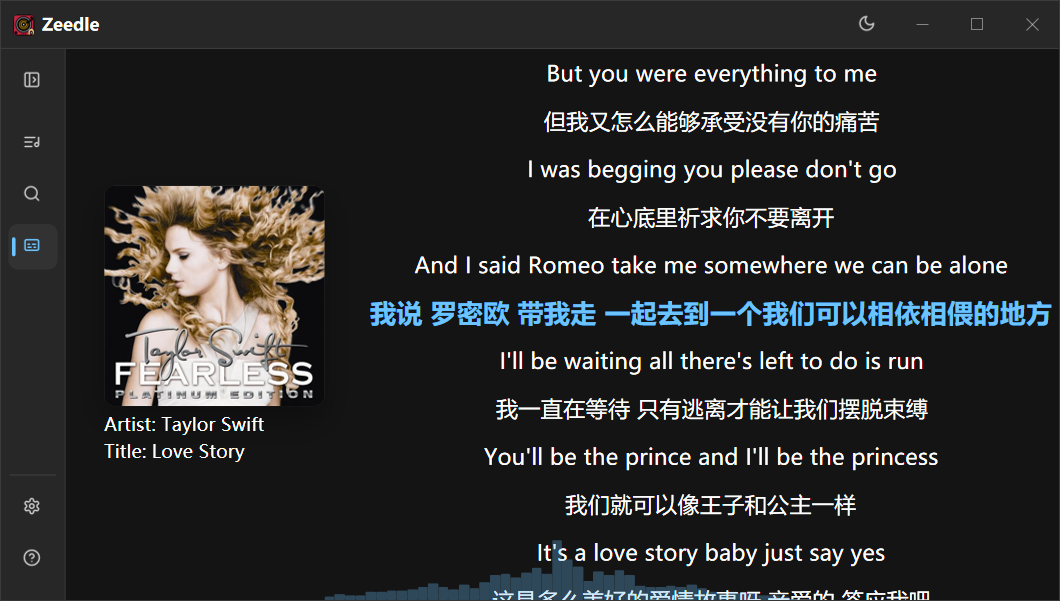
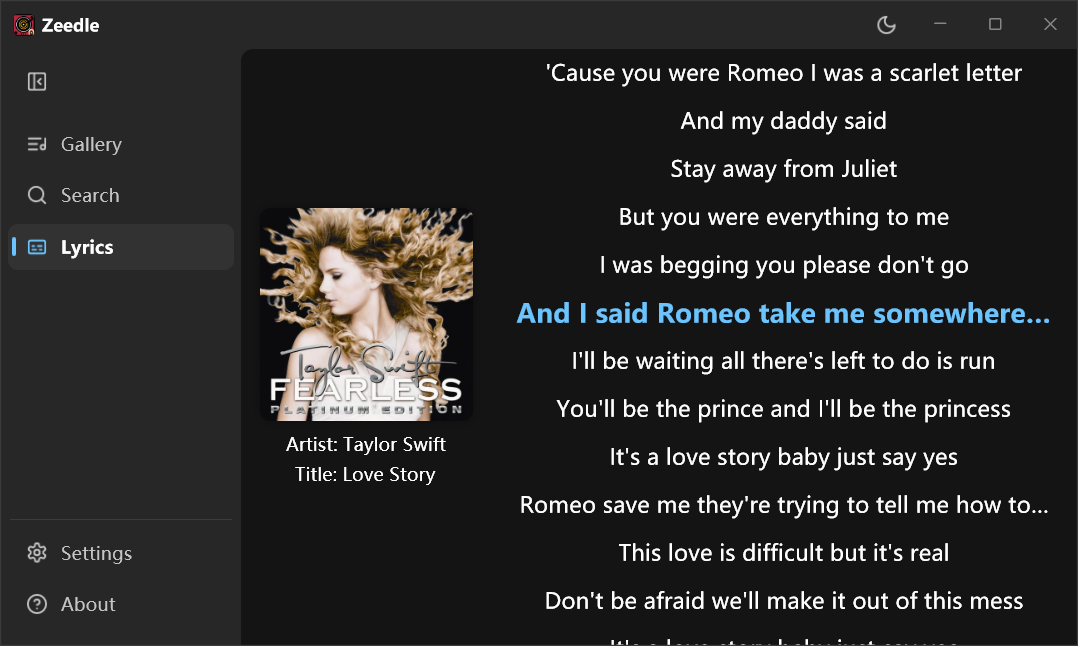
docs(readme): refresh dark screenshots for both locales

diff --git a/README.zh-CN.md b/README.zh-CN.md
@@ -1,0 +1,196 @@
+<p align="center">
+  <img src="assets/cover.svg" alt="Zeedle 标志" width="88">
+</p>
+
+<h1 align="center">Zeedle</h1>
+
+<p align="center">
+  <strong>使用 <a href="https://nsh.dev">Native Shell（NSH）</a>移植的本地音乐播放器。</strong><br>
+  音乐即刻播放，设计简洁纯粹。
+</p>
+
+<p align="center">
+  使用 <a href="https://nsh.dev">Native Shell</a>、Rust 和 Rodio 构建
+</p>
+
+<p align="center"><a href="README.md">English</a></p>
+
+---
+
+Zeedle 是一款轻量级桌面音乐播放器，专注于本地音乐库。本项目使用 TSX 界面和 Rust 音频、元数据后端，将 [原版 Zeedle](https://github.com/Jordan-Haidee/zeedle) 移植到 [Native Shell](https://nsh.dev)。
+
+## 功能
+
+- 浏览和搜索本地 MP3、FLAC、WAV 与 OGG 文件。
+- 显示内嵌歌词或同目录的 LRC 歌词，并可点击歌词行跳转播放位置。
+- 播放音乐时查看实时频谱。
+- 在曲库中编辑歌曲信息、专辑封面和歌词。
+- 选择顺序、单曲循环或随机播放，并使用键盘快捷键控制播放和切歌。顺序播放会按当前曲库排序循环；单曲循环模式下按“下一首”会重播当前歌曲；随机播放会避免连续选中同一首，并可通过上一首/下一首沿随机播放历史前后切换。
+- 关闭窗口后让 Zeedle 继续在系统托盘运行；可以从托盘重新显示窗口、重新扫描曲库或退出程序。
+- 支持英语、中文、西班牙语、法语、德语和俄语，并可跟随系统主题。
+
+## 开发环境
+
+Zeedle 使用 NSH 0.6.1 和 Rust 构建原生音频后端。Bun 用于运行 TypeScript 格式化、静态检查和辅助脚本。请为你的平台安装以下工具，然后克隆仓库。
+
+### Windows
+
+使用 Windows 10 版本 1809 或更新版本，并安装：
+
+1. [Git for Windows](https://git-scm.com/download/win)。
+2. [通过 rustup 安装 Rust](https://www.rust-lang.org/tools/install)。安装时选择 MSVC 工具链，并按提示安装 Visual Studio C++ Build Tools 和 Windows SDK。然后在 PowerShell 中选择 stable 工具链：
+
+   ```powershell
+   rustup toolchain install stable
+   rustup default stable
+   ```
+
+3. [NSH CLI](https://nsh.dev/docs/installation/)，使用本仓库 CI 固定的版本：
+
+   ```powershell
+   $env:NSH_VERSION = 'v0.6.1'
+   irm https://nsh.dev/install.ps1 | iex
+   ```
+
+   重新打开终端以载入更新后的 `PATH`。按照 NSH 的 [Windows 前置条件](https://nsh.dev/docs/installation/)安装 LLVM；如果 LLVM 不在 `C:\Program Files\LLVM`，请将 `LIBCLANG_PATH` 设置为其 `bin` 目录。
+4. [Bun](https://bun.com/docs/installation)：
+
+   ```powershell
+   irm https://bun.sh/install.ps1 | iex
+   ```
+
+### macOS 和 Linux
+
+安装 Git、通过 [rustup](https://www.rust-lang.org/tools/install) 安装 stable Rust，以及 [Bun](https://bun.com/docs/installation)。然后通过官方安装脚本安装本仓库所用的 NSH 版本：
+
+```sh
+export NSH_VERSION=v0.6.1
+curl -fsSL https://nsh.dev/install.sh | sh
+```
+
+平台依赖请参阅 [NSH 安装指南](https://nsh.dev/docs/installation/)。macOS 开发需要 Xcode Command Line Tools。在 Ubuntu 24.04 上构建本项目还需要 GTK 4、WebKitGTK 6、GStreamer，以及 [CI workflow](.github/workflows/cross-platform.yml) 中列出的开发包。
+
+### 克隆和配置
+
+在 PowerShell 或其他平台的终端中运行：
+
+```sh
+git clone https://github.com/Jordan-Haidee/zeedle-nsh.git
+cd zeedle-nsh
+bun install --frozen-lockfile
+git config core.hooksPath .githooks
+```
+
+Git hook 会在每次提交前检查暂存的 TS/TSX 文件格式和静态检查，并运行 `nsh check`。每个克隆仓库只需配置一次。`bun install` 会安装项目使用的 Oxfmt 和 Oxlint；运行它们不需要 Node.js。
+
+检查已安装的工具和源码：
+
+```sh
+nsh --version # 应为 0.6.1
+rustc --version
+bun --version
+bun run fmt:check
+bun run lint
+nsh check -v
+```
+
+## 构建和运行
+
+在原生桌面窗口中运行应用：
+
+```sh
+nsh run
+```
+
+应用目录以 `App.tsx` 作为 TSX 界面入口。在 Windows 上可使用 `nsh run --window-size 900x510` 设置初始窗口大小。运行 UI 测试请使用 `nsh test App.test.tsx`；播放集成测试需要下方列出的本地音乐样例。
+
+在 Windows 上通过 NSH test host 离屏截取界面：
+
+```powershell
+@'
+await app.waitFor("id:screen-0");
+await app.screenshot("target/dev-check.png");
+'@ | nsh test App.tsx --target windows
+```
+
+截图由 test host 捕获并保存到被忽略的 `target/` 目录。
+
+构建 Windows 安装包时，请先安装 [Inno Setup 6](https://jrsoftware.org/isinfo.php)，再运行 `nsh package App.tsx --target windows`。运行 `nsh run` 不需要 Inno Setup。
+
+运行 Tailwind language server 检查：
+
+```sh
+bun run scripts/check-tailwind-lsp.ts
+```
+
+播放集成测试会使用默认 Music 目录中的歌曲，包括 **一眼万年**、**万疆**、**Deadman** 和 **Love Story**。运行完整测试套件时，请确保这些歌曲及其歌词元数据可用；仓库不包含受版权保护的音频。
+
+## 支持的平台和便携构建
+
+便携版目前支持 Windows x64、Linux x64 和 Apple Silicon macOS。Release workflow 会在对应原生平台上打包应用、截取曲库、设置和关于页面，并在三个平台任务全部通过后发布。
+
+安装 NSH 0.6.1 和 Rust 后，可在本地构建：
+
+```sh
+nsh package --target linux
+nsh package --target macos
+```
+
+在 Windows 上，NSH package 命令从 `nsh.json` 读取窗口和图标设置；安装 Inno Setup 6 后会生成安装包：
+
+```powershell
+nsh package App.tsx --target windows
+```
+
+每个 GitHub Release 包含一个 Windows 安装程序、一个 Linux 软件包和一个 macOS 应用压缩包，文件名分别为 `Zeedle-<tag>-windows-x86_64-setup.exe`、`Zeedle-<tag>-linux-x86_64.tar.gz` 和 `Zeedle-<tag>-macos-aarch64.app.zip`。CI 也会上传未压缩的 `.app` bundle。Linux 需要 GTK 4.14 和 WebKitGTK 6.0；macOS 需要 14 或更新版本。macOS 软件包使用 ad hoc 签名。
+
+推送与 `nsh.json` 中版本号匹配的 tag（例如 `v0.2.5`），即可构建三个平台的软件包并发布 GitHub Release。也可以手动启动 Actions workflow 来验证打包和截图，而不发布版本。
+
+Windows 渲染和启动检查：
+
+```sh
+nsh test tests/windows-visual.test.tsx --target windows
+nsh test tests/platform-render.test.tsx --target windows
+nsh test tests/platform-render.test.tsx --target linux
+nsh test tests/platform-render.test.tsx --target macos
+powershell -File scripts/check-windows-startup.ps1
+```
+
+平台渲染测试会从各原生桌面 host 截取曲库、设置和关于页面。CI 会在 Xvfb 中运行 Linux 测试并上传截图供检查。
+
+## 项目结构
+
+- `App.tsx` — TSX 界面和 `nsh run` 的默认入口。
+- `src/lib.rs` 和 `src/spectrum.rs` — 音频播放、元数据、浏览器链接和频谱分析。
+- `ui/icons/` — Lucide SVG 界面图标。
+- `theme.json` — 亮色和暗色主题 token。
+
+原版 Zeedle 项目由 [Jordan-Haidee/zeedle](https://github.com/Jordan-Haidee/zeedle) 维护。本仓库是它的 NSH 移植版，不是原始 Slint 应用。
+
+## 界面截图
+
+以下截图使用 Windows 暗色主题和中文界面。曲库、搜索、歌词与元数据编辑页面展示的是 Taylor Swift 的《Love Story》。
+
+### 音乐曲库
+
+![Zeedle 音乐曲库](docs/screenshots/zh-CN/gallery.png)
+
+### 搜索
+
+![Love Story 搜索结果](docs/screenshots/zh-CN/search.png)
+
+### 同步歌词
+
+![同步歌词](docs/screenshots/zh-CN/lyrics.png)
+
+### 设置
+
+![Zeedle 设置](docs/screenshots/zh-CN/settings.png)
+
+### 关于
+
+![Zeedle 和 NSH](docs/screenshots/zh-CN/about.png)
+
+### 编辑歌曲信息
+
+![编辑 Love Story 的歌曲信息](docs/screenshots/zh-CN/metadata-editor.png)

diff --git a/README.md b/README.md
@@ -13,6 +13,8 @@
   Built with <a href="https://nsh.dev">Native Shell</a>, Rust and Rodio
 </p>
 
+<p align="center"><a href="README.zh-CN.md">简体中文</a></p>
+
 ---
 
 Zeedle is a lightweight desktop music player focused on your local library. This project brings the original Zeedle experience to [Native Shell](https://nsh.dev), with a TSX interface and a Rust audio and metadata backend.
@@ -167,7 +169,7 @@ The original Zeedle project is maintained at [Jordan-Haidee/zeedle](https://gith
 
 ## Screenshots
 
-The following full-window captures show the Windows app in English. The library capture shows Shuffle selected. Search, lyrics and metadata editing are shown with “Love Story” by Taylor Swift.
+The following full-window captures show the Windows app in English with the dark theme enabled. The library capture shows Shuffle selected. Search, lyrics and metadata editing are shown with “Love Story” by Taylor Swift.
 
 ### Music library
 
